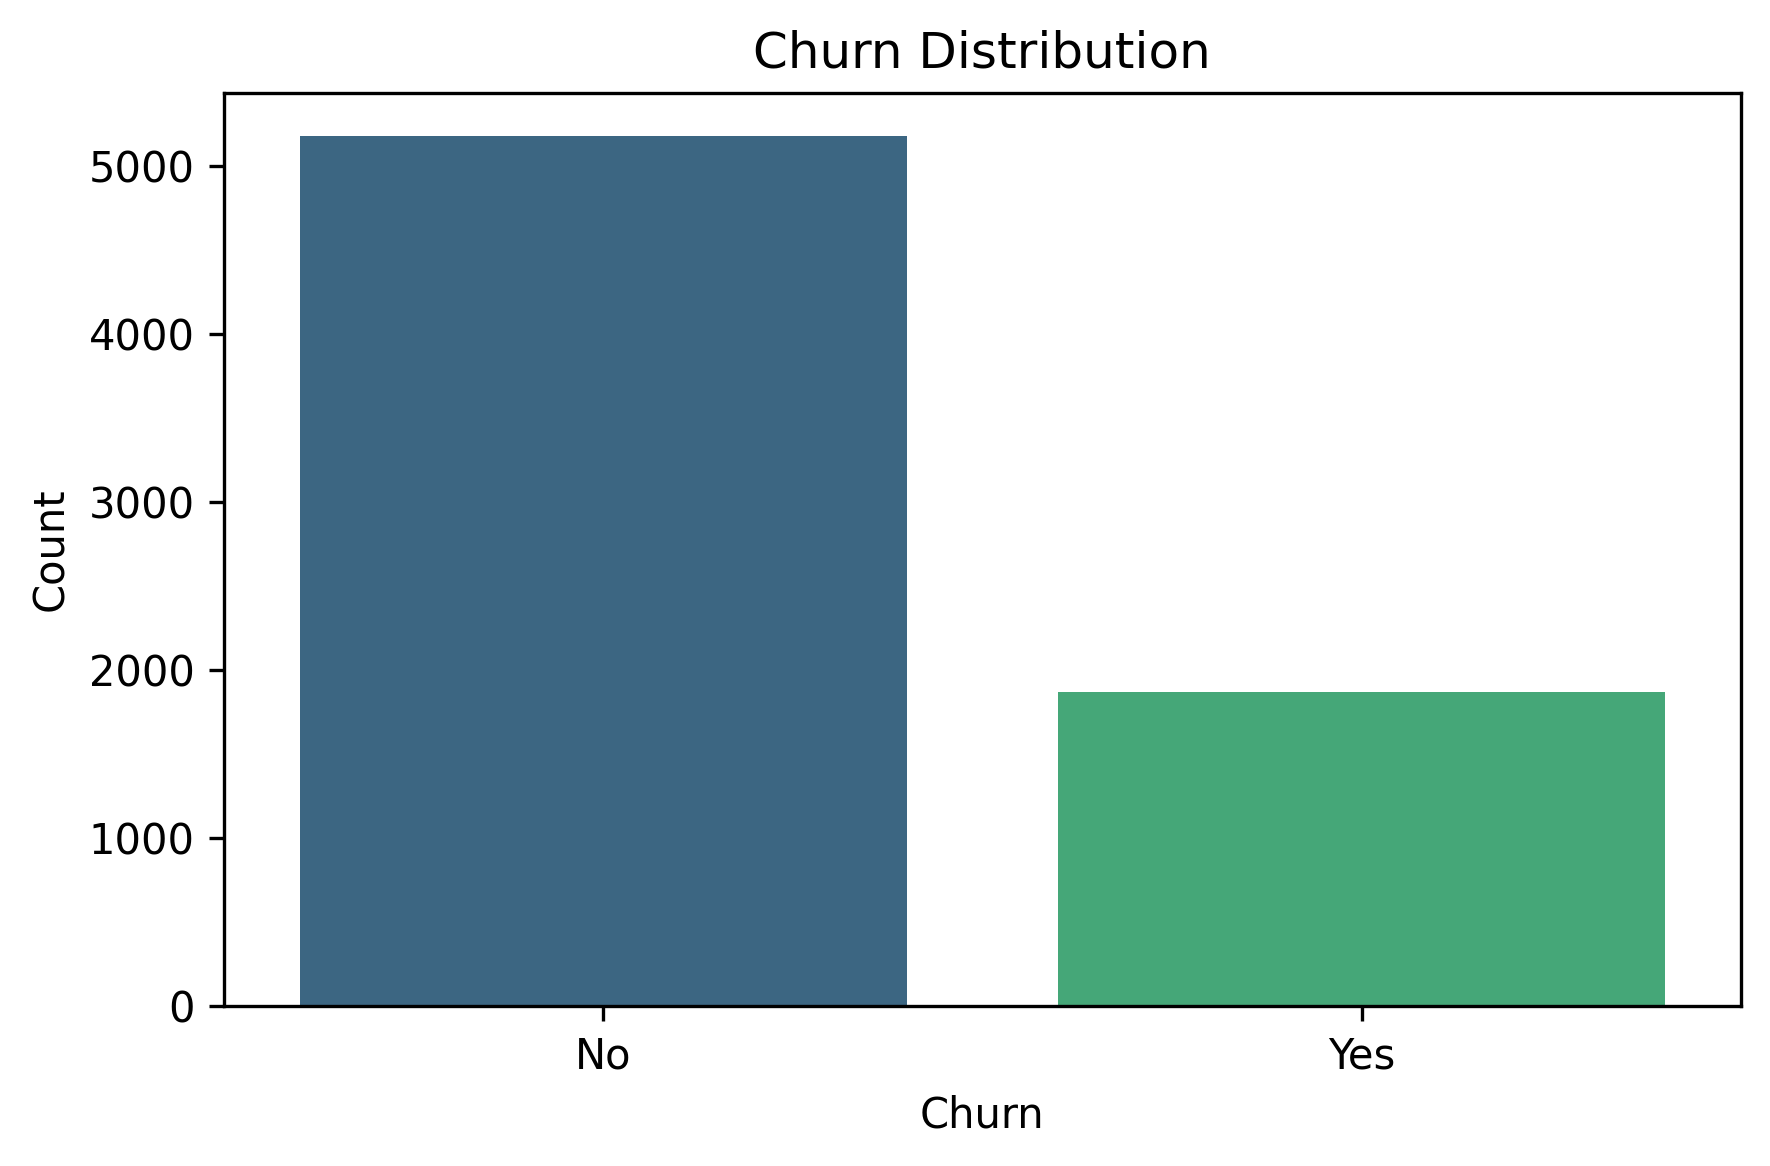
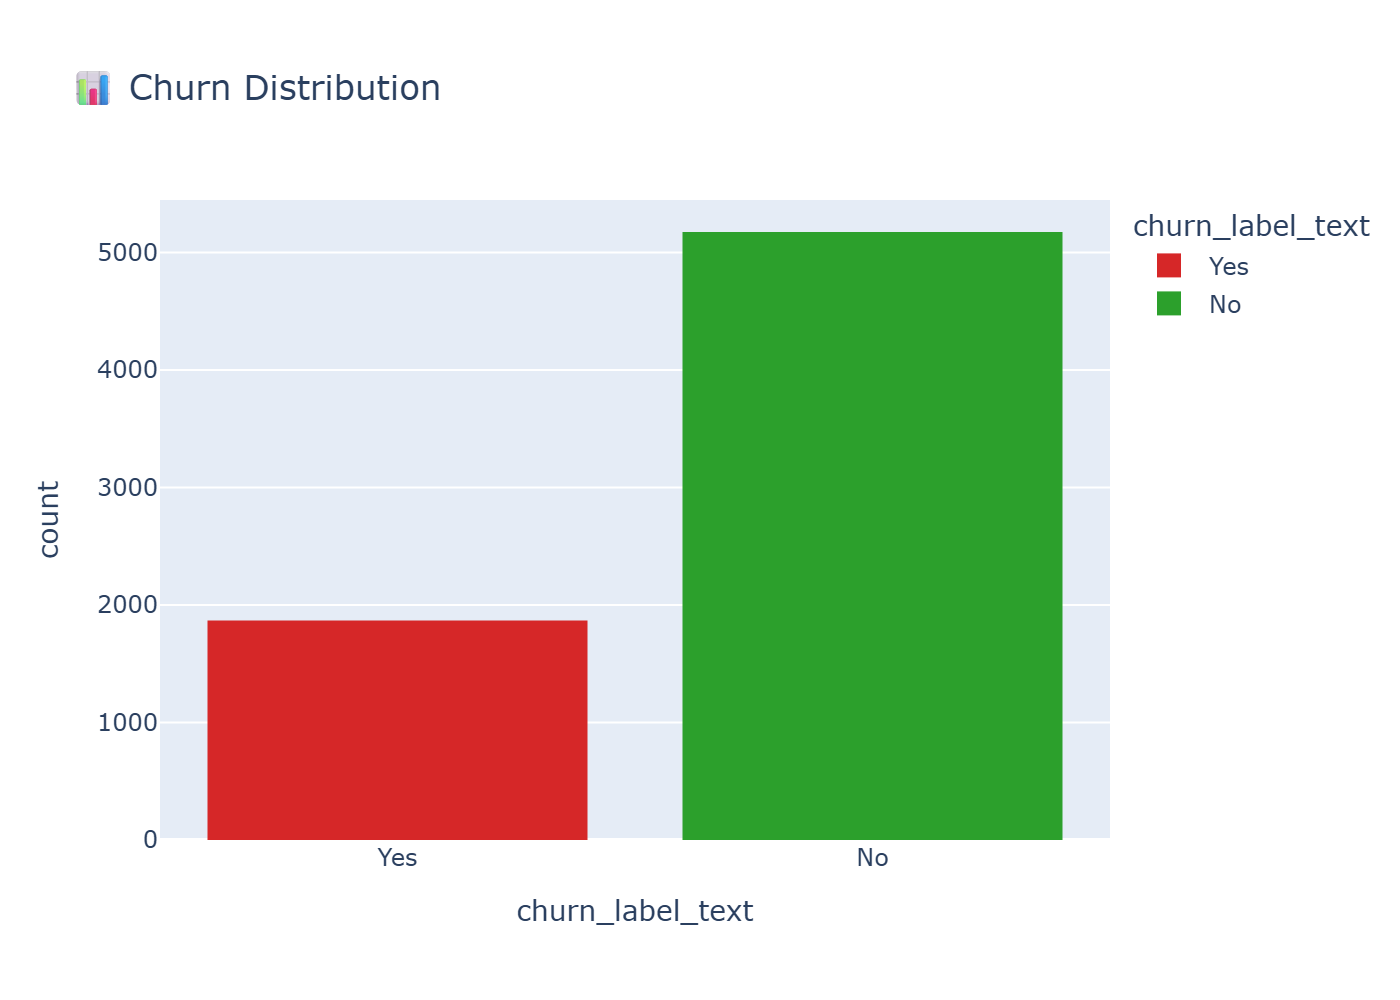
Initial commit - Telco Churn project

diff --git a/App.py b/App.py
@@ -1,0 +1,215 @@
+# app.py
+import streamlit as st
+import pandas as pd
+import numpy as np
+import plotly.express as px
+import plotly.graph_objects as go
+from sklearn.preprocessing import LabelEncoder, StandardScaler
+from sklearn.model_selection import train_test_split
+from imblearn.over_sampling import SMOTE
+from sklearn.ensemble import RandomForestClassifier
+from sklearn.metrics import roc_curve, roc_auc_score, confusion_matrix, classification_report
+import joblib
+import os
+
+# -------------------------------
+# Streamlit Page Config
+# -------------------------------
+st.set_page_config(page_title="Telco Churn Dashboard", layout="wide")
+st.title("📊 Telco Customer Churn Analysis")
+
+# -------------------------------
+# 1. Load Data
+# -------------------------------
+data_file = "Telco.csv"
+try:
+    data = pd.read_csv(data_file)
+except FileNotFoundError:
+    st.error(f"File '{data_file}' not found.")
+    st.stop()
+
+# Normalize column names
+data.columns = data.columns.str.lower().str.replace(' ', '_')
+
+# -------------------------------
+# 2. Handle Total Charges
+# -------------------------------
+if 'total_charges' in data.columns:
+    data['total_charges'] = pd.to_numeric(data['total_charges'], errors='coerce')
+    data['total_charges'].fillna(data['total_charges'].median(), inplace=True)
+
+# -------------------------------
+# 3. Encode Target
+# -------------------------------
+if 'churn_label' in data.columns:
+    data['churn_label'] = data['churn_label'].map({'Yes':1, 'No':0})
+else:
+    st.error("'churn_label' column not found in CSV.")
+    st.stop()
+
+# -------------------------------
+# 4. Sidebar Filters
+# -------------------------------
+st.sidebar.header("Filter Data")
+contract_type = st.sidebar.multiselect("Contract Type", data['contract'].unique())
+filtered_data = data[data['contract'].isin(contract_type)] if contract_type else data
+
+# -------------------------------
+# 5. KPIs
+# -------------------------------
+total_customers = len(filtered_data)
+churn_count = filtered_data['churn_label'].sum()
+churn_rate = round(churn_count / total_customers * 100, 2)
+avg_monthly_charge = round(filtered_data['monthly_charge'].mean(),2) if 'monthly_charge' in filtered_data.columns else 0
+
+kpi_names = ["💼 Total Customers", "📉 Churn Count", "💰 Avg Monthly Charge"]
+kpi_values = [total_customers, churn_count, f"${avg_monthly_charge}"]
+
+kpi_table = go.Figure(data=[go.Table(
+    header=dict(values=["KPI", "Value"], fill_color='midnightblue', font=dict(color='white', size=20), align='center'),
+    cells=dict(values=[kpi_names, kpi_values], fill_color='lavender', font=dict(color='black', size=18), align='center', height=50)
+)])
+kpi_table.update_layout(title=dict(text="📌 Key Performance Indicators", font=dict(size=22)), margin=dict(l=10,r=10,t=50,b=10))
+st.plotly_chart(kpi_table, use_container_width=True)
+
+# -------------------------------
+# 6. Encode Categorical Variables
+# -------------------------------
+categorical_cols = filtered_data.select_dtypes(include='object').columns.tolist()
+categorical_cols = [c for c in categorical_cols if c != 'churn_label']
+
+if not os.path.exists("encoders"):
+    os.makedirs("encoders")
+
+encoders = {}
+for col in categorical_cols:
+    le = LabelEncoder()
+    filtered_data[col] = le.fit_transform(filtered_data[col].astype(str))
+    encoders[col] = le
+    joblib.dump(le, f"encoders/{col}_encoder.pkl")
+
+# -------------------------------
+# 7. Features & Scaling
+# -------------------------------
+X = filtered_data.drop('churn_label', axis=1)
+y = filtered_data['churn_label']
+
+scaler = StandardScaler()
+X_scaled = scaler.fit_transform(X)
+joblib.dump(scaler, 'scaler.pkl')
+
+# Train-test split
+X_train, X_test, y_train, y_test = train_test_split(
+    X_scaled, y, test_size=0.3, random_state=42, stratify=y
+)
+
+# SMOTE
+smote = SMOTE(random_state=42)
+X_train_res, y_train_res = smote.fit_resample(X_train, y_train)
+
+# -------------------------------
+# 8. Train Random Forest
+# -------------------------------
+rf = RandomForestClassifier(n_estimators=100, random_state=42)
+rf.fit(X_train_res, y_train_res)
+y_pred = rf.predict(X_test)
+y_proba = rf.predict_proba(X_test)[:,1]
+
+# Save model
+if not os.path.exists("models"):
+    os.makedirs("models")
+joblib.dump(rf, "models/rf_model.pkl")
+
+# -------------------------------
+# 9. Top 5 Feature Importance
+# -------------------------------
+importances = rf.feature_importances_
+feat_imp = pd.DataFrame({'Feature': X.columns, 'Importance': importances})
+top5_feat = feat_imp.sort_values(by='Importance', ascending=False).head(5)
+
+fig_feat = px.bar(top5_feat, x='Importance', y='Feature', orientation='h', color='Importance',
+                  color_continuous_scale='Magma', title='🔥 Top 5 Feature Importances')
+fig_feat.update_layout(yaxis={'categoryorder':'total ascending'})
+st.plotly_chart(fig_feat, use_container_width=True)
+
+# -------------------------------
+# 10. Insights & Recommendations
+# -------------------------------
+insights_full = [
+    "Month-to-month contracts have higher churn.",
+    "Higher monthly charges increase churn risk.",
+    "No device protection plan correlates with higher churn.",
+    "Fiber optic internet users churn more than DSL.",
+    "Longer tenure and long-term contracts reduce churn."
+]
+recommendations_full = [
+    "Incentivize month-to-month customers to switch to annual contracts.",
+    "Review pricing for high monthly charges to reduce churn.",
+    "Promote device protection plans to improve retention.",
+    "Provide special support or perks for Fiber optic users.",
+    "Encourage longer contract durations through loyalty programs."
+]
+
+insight_table = go.Figure(data=[go.Table(
+    header=dict(values=["📝 Insight", "✅ Recommendation"], fill_color='darkgreen', font=dict(color='white', size=18), align='center'),
+    cells=dict(values=[insights_full, recommendations_full],
+               fill_color=[['#e6ffe6','#ccffcc','#e6ffe6','#ccffcc','#e6ffe6'],
+                           ['#ffd9b3','#ffb84d','#ffd9b3','#ffb84d','#ffd9b3']],
+               font=dict(color='black', size=16), align='left', height=60)
+)])
+insight_table.update_layout(title=dict(text="📌 Insights & Recommendations", font=dict(size=22)), margin=dict(l=10,r=10,t=50,b=10))
+st.plotly_chart(insight_table, use_container_width=True)
+
+# -------------------------------
+# 11. Interactive Charts
+# -------------------------------
+filtered_data['churn_label_text'] = filtered_data['churn_label'].map({0:'No',1:'Yes'})
+
+fig1 = px.histogram(filtered_data, x='churn_label_text', color='churn_label_text',
+                    color_discrete_map={'No':'#2ca02c','Yes':'#d62728'},
+                    title='📊 Churn Distribution')
+st.plotly_chart(fig1, use_container_width=True)
+
+fig2 = px.box(filtered_data, x='churn_label_text', y='monthly_charge', color='churn_label_text',
+              color_discrete_map={'No':'#2ca02c','Yes':'#d62728'}, title='💵 Monthly Charge vs Churn')
+st.plotly_chart(fig2, use_container_width=True)
+
+fig3 = px.box(filtered_data, x='churn_label_text', y='tenure_in_months', color='churn_label_text',
+              color_discrete_map={'No':'#2ca02c','Yes':'#d62728'}, title='⏳ Tenure vs Churn')
+st.plotly_chart(fig3, use_container_width=True)
+
+fig4 = px.histogram(filtered_data, x='avg_monthly_gb_download', color='churn_label_text',
+                    color_discrete_map={'No':'#2ca02c','Yes':'#d62728'}, title='📶 Avg Monthly GB Download vs Churn')
+st.plotly_chart(fig4, use_container_width=True)
+
+fig5 = px.histogram(filtered_data, x='number_of_referrals', color='churn_label_text',
+                    color_discrete_map={'No':'#2ca02c','Yes':'#d62728'}, title='🤝 Number of Referrals vs Churn')
+st.plotly_chart(fig5, use_container_width=True)
+
+fig6 = px.box(filtered_data, x='churn_label_text', y='total_revenue', color='churn_label_text',
+              color_discrete_map={'No':'#2ca02c','Yes':'#d62728'}, title='💰 Total Revenue vs Churn')
+st.plotly_chart(fig6, use_container_width=True)
+
+# -------------------------------
+# 12. ROC Curve
+# -------------------------------
+fpr, tpr, thresholds = roc_curve(y_test, y_proba)
+roc_auc = roc_auc_score(y_test, y_proba)
+
+roc_fig = go.Figure()
+roc_fig.add_trace(go.Scatter(x=fpr, y=tpr, mode='lines', name='ROC Curve',
+                             line=dict(color='blue', width=3)))
+roc_fig.add_trace(go.Scatter(x=[0,1], y=[0,1], mode='lines', name='Random Guess',
+                             line=dict(color='red', width=2, dash='dash')))
+roc_fig.update_layout(title=f"📈 ROC Curve - AUC: {roc_auc:.2f}",
+                      xaxis_title='False Positive Rate', yaxis_title='True Positive Rate')
+st.plotly_chart(roc_fig, use_container_width=True)
+
+# -------------------------------
+# 13. Confusion Matrix & Classification Report
+# -------------------------------
+st.subheader("🧮 Model Evaluation")
+st.text("Confusion Matrix:")
+st.text(confusion_matrix(y_test, y_pred))
+st.text("\nClassification Report:")
+st.text(classification_report(y_test, y_pred))
